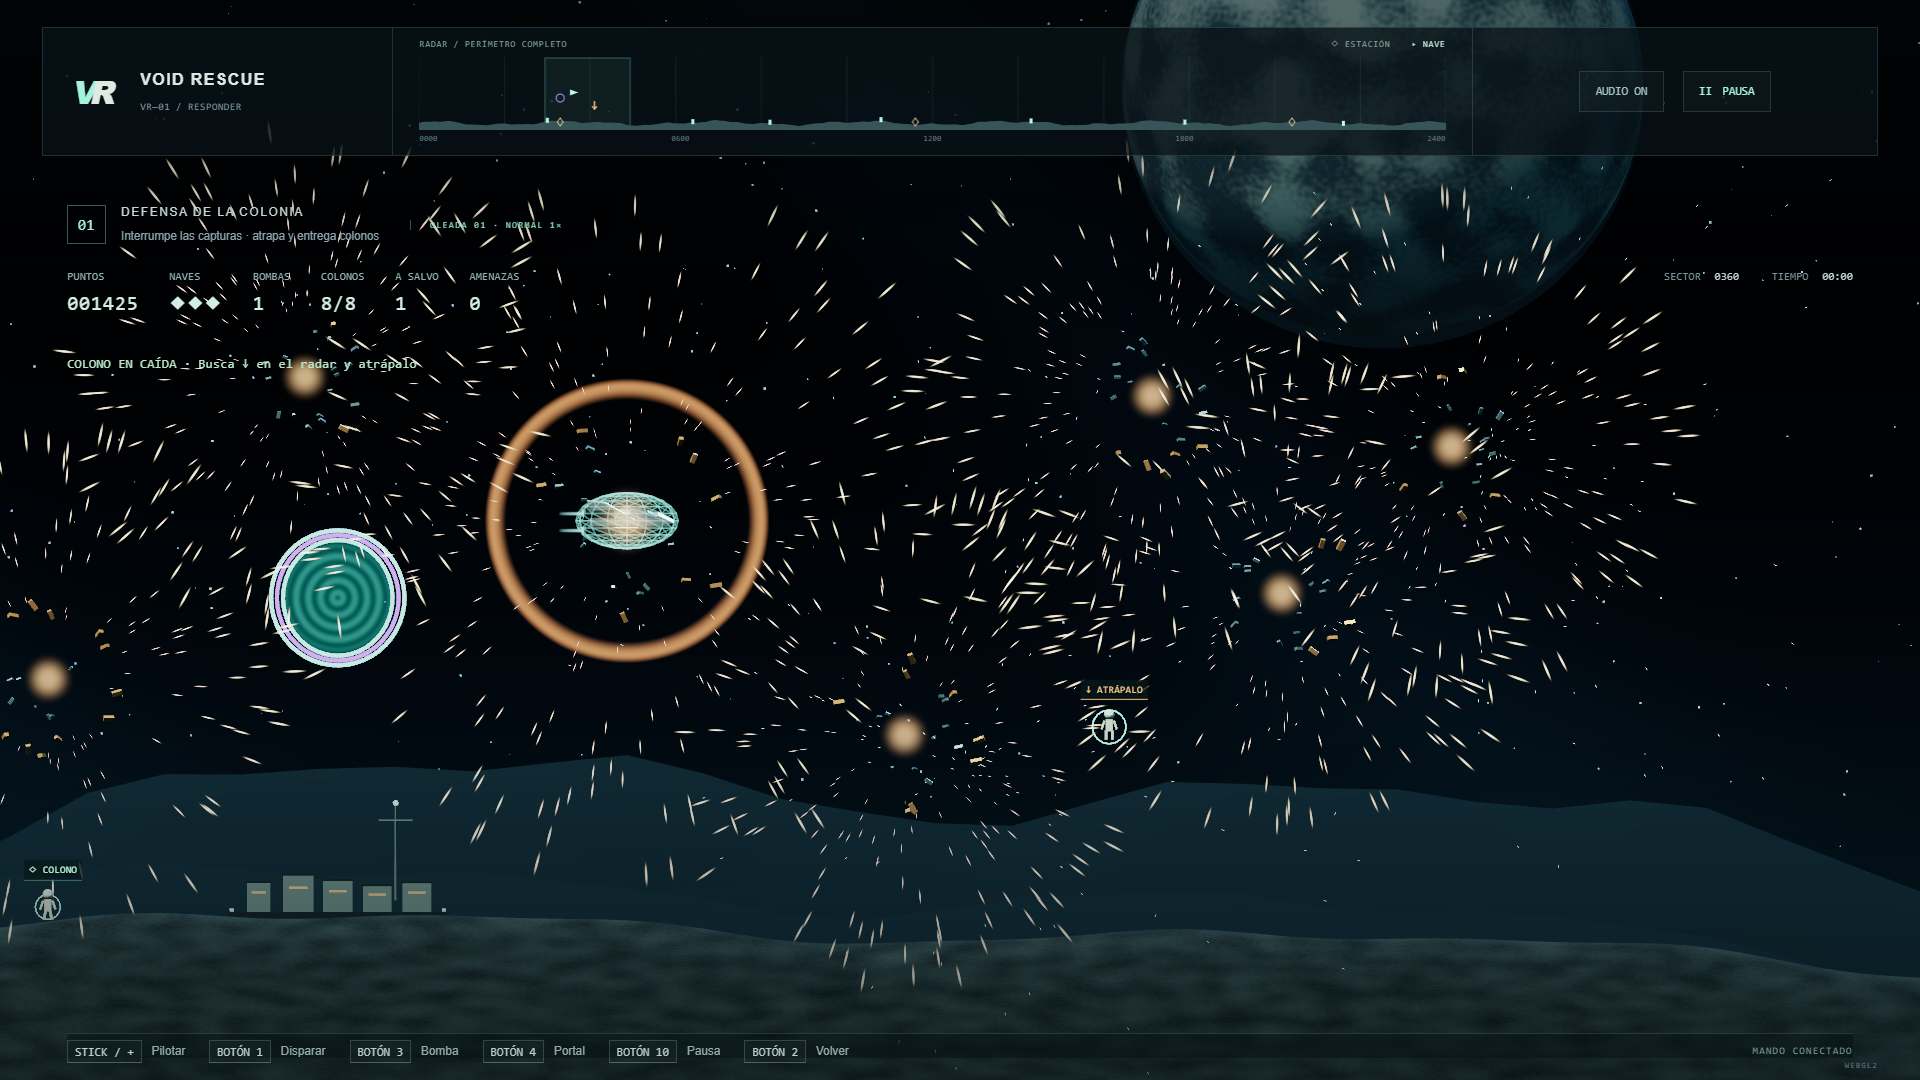
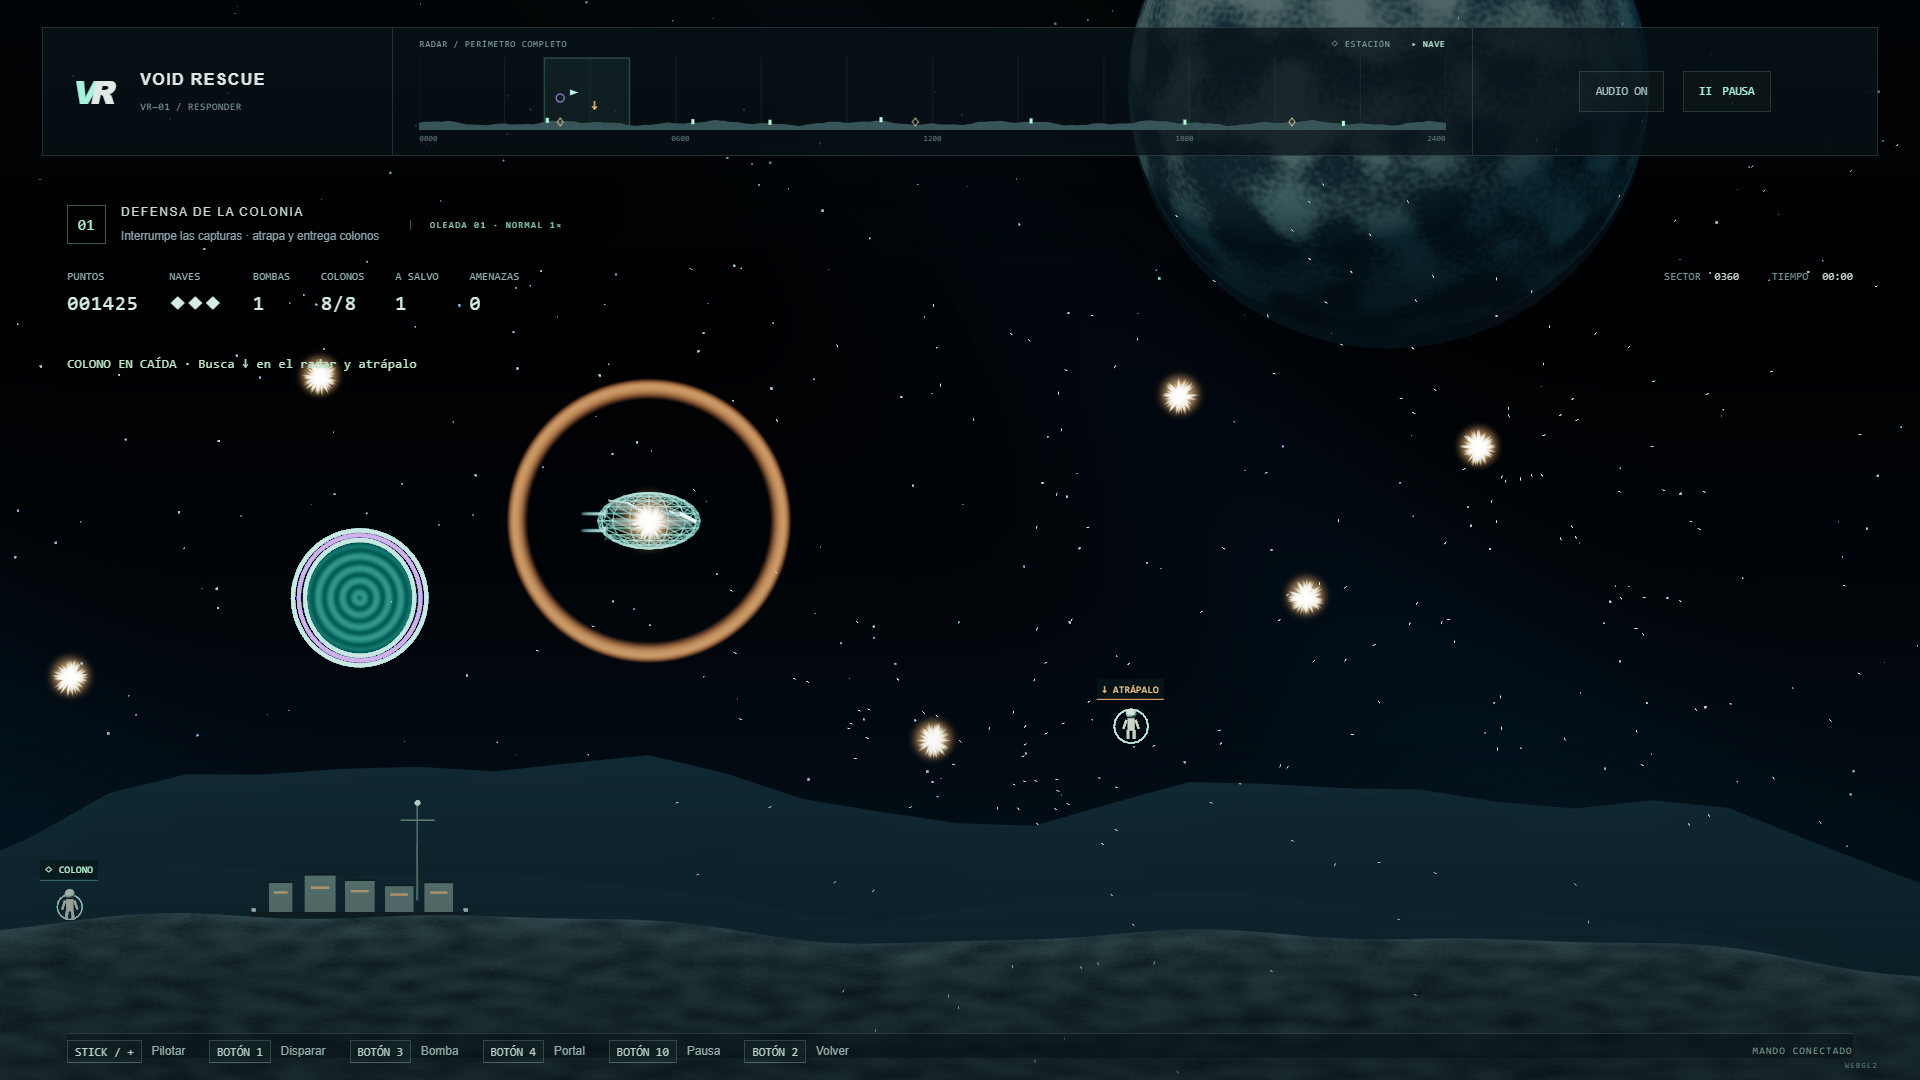
Slow explosion particle expansion

diff --git a/src/render/DestructionEffects.ts b/src/render/DestructionEffects.ts
@@ -57,13 +57,17 @@ export class DestructionEffects {
         const random = noise(event.id * 73856093 + i * 19349663);
         const variation = noise(event.id * 83492791 + i * 2971215073);
         const angle = variation * Math.PI * 2;
-        const lifetime = spawning ? 0.38 + random * 0.24 : impact ? 0.16 + random * 0.14 : (large ? 1.6 : 1.4) + random * 1.6;
+        const lifetime = spawning ? 0.38 + random * 0.24 : impact ? 0.16 + random * 0.14 : (large ? 2.35 : 2.2) + random * (large ? 0.85 : 0.8);
         if (age > lifetime) continue;
         const progress = Math.min(1, age / lifetime);
+        // Destruction no longer bursts outward at the start.  Its radius grows
+        // over the complete effect duration, with a deliberately slow opening.
+        const expansion = Math.pow(Math.min(1, age / duration), 1.45);
         const travel = spawning
           ? width * (0.12 + random * 0.43) * (1 - progress)
-          : (impact ? 20 + random * 38 : 85 + random * 265) * scale * (1 - Math.exp(-age * 2.4)) / 2.4;
-        this.helper.position.set(x + Math.cos(angle) * travel, event.y + Math.sin(angle) * travel - (spawning ? 0 : age * age * (8 + random * 22)), 14);
+          : impact ? (20 + random * 38) * progress : (36 + random * 84) * scale * expansion;
+        const fall = spawning ? 0 : impact ? age * age * 4 : (10 + random * 24) * expansion;
+        this.helper.position.set(x + Math.cos(angle) * travel, event.y + Math.sin(angle) * travel - fall, 14);
         this.helper.rotation.set(0, 0, angle);
         const fade = spawning ? Math.min(1, progress * 3) : 1 - progress;
         this.helper.scale.set((spawning ? 0.55 : 0.8 + random * 2.6) * fade, (spawning ? 0.18 : 0.16 + random * 0.28) * fade, 1);
@@ -75,8 +79,10 @@ export class DestructionEffects {
       }
       if (!impact && !spawning) for (let i = 0; i < (reduced ? 4 : 18) && debrisCount < 128; i++) {
         const random = noise(event.id * 2654435761 + i * 1597334677);
-        const angle = noise(event.id * 40503 + i * 7919) * Math.PI * 2, speed = (30 + random * 70) * scale;
-        this.helper.position.set(x + Math.cos(angle) * speed * age, event.y + Math.sin(angle) * speed * age - 8 * age * age, 13);
+        const angle = noise(event.id * 40503 + i * 7919) * Math.PI * 2;
+        const expansion = Math.pow(Math.min(1, age / duration), 1.45);
+        const travel = (20 + random * 60) * scale * expansion;
+        this.helper.position.set(x + Math.cos(angle) * travel, event.y + Math.sin(angle) * travel - (5 + random * 8) * expansion, 13);
         this.helper.rotation.set(age * (i + 2), age * 2, angle + age * 5);
         this.helper.scale.setScalar((0.45 + random * 0.8) * Math.max(0, 1 - age / duration));
         this.helper.updateMatrix(); this.debris.setMatrixAt(debrisCount, this.helper.matrix);

diff --git a/tests/e2e/upgrade.spec.ts b/tests/e2e/upgrade.spec.ts
@@ -83,6 +83,10 @@ test('bomba y destrucción propia producen partículas con opción de reducción
   const metrics = await page.evaluate(() => window.__VOID_RESCUE__!.getMetrics());
   expect(metrics.entities.particles).toBeGreaterThan(120); expect(metrics.drawCalls).toBeLessThan(300);
   await writeFile(`docs/screenshots/${info.project.name}-explosion-metrics.json`, JSON.stringify(metrics, null, 2));
+  await page.waitForTimeout(1500);
+  const expanding = await page.evaluate(() => window.__VOID_RESCUE__!.getMetrics());
+  expect(expanding.entities.particles).toBeGreaterThan(100);
+  await page.screenshot({ path: `docs/screenshots/${info.project.name}-explosion-expansion.png` });
   await page.evaluate(() => window.__VOID_RESCUE__!.loadScenario('player-near-death'));
   await page.waitForFunction(() => !window.__VOID_RESCUE__!.getState().player.alive);
   await page.screenshot({ path: `docs/screenshots/${info.project.name}-player-explosion.png` });

diff --git a/README.md b/README.md
@@ -103,7 +103,7 @@ Guardado únicamente en este navegador/origen mediante `localStorage` (`void-res
 
 El propulsor combina un núcleo filtrado y un silbido de iones ligado a velocidad/aceleración, en lugar de un motor de combustión. Los disparos usan un chirrido de plasma ascendente y una cola cristalina; las explosiones combinan transitorio, subgrave, ruido amplio y fragmentación metálica durante más de un segundo. Variación determinista, panorámica, límite de voces, compresor y saturación suave final. Se mantienen silencio y volumen.
 
-Destrucciones con núcleo brillante breve, chispas alargadas y fragmentos giratorios que se disipan durante ~3 s (hasta ~3.2 s para bomba o destrucción propia). Las partículas continúan disipándose detrás del resumen, pero se congelan en pausa. La opción de reducir efectos baja cantidad/intensidad y elimina las nubes; conserva la información del impacto.
+Destrucciones con núcleo brillante breve, chispas alargadas y fragmentos giratorios que se disipan durante ~3 s (hasta ~3.2 s para bomba o destrucción propia). El radio de las partículas se abre gradualmente a lo largo de toda esa animación, en vez de expandirse casi por completo al inicio. Las partículas continúan disipándose detrás del resumen, pero se congelan en pausa. La opción de reducir efectos baja cantidad/intensidad y elimina las nubes; conserva la información del impacto.
 
 La prueba offline usa diez explosiones/bombas superpuestas y seis disparos a 48 kHz estéreo: pico ~0.639, RMS ~0.092, sin muestras no finitas ni valores fuera de [-1,1]. Evidencia en `*-audio-mix.json`. No sustituye la escucha humana.
 

diff --git a/PLAN.md b/PLAN.md
@@ -205,3 +205,7 @@ Solicitud explícita del usuario: extender la difusión de partículas de explos
 - [x] Permitir que un disparo defensor destruya colonos en suelo, objetivo, captura o caída; liberar correctamente la reserva del abductor y mostrar la baja.
 - [x] Mantener protegidos a colonos transportados o ya entregados para impedir bajas retroactivas o autoimpactos inmediatos.
 - [x] Añadir regresión de descenso y fuego aliado; 55 pruebas unitarias y build aprobados. La prueba visual de explosión pasó en WebGPU/WebGL2.
+
+## Corrección — velocidad de expansión de partículas (2026-09-10)
+
+El usuario aclara que la duración no era el defecto: las partículas alcanzaban su radio demasiado pronto. Se reajusta la curva de radio para abrirse lentamente durante los tres segundos completos, con vidas de partícula suficientes para que la cola siga siendo visible.
